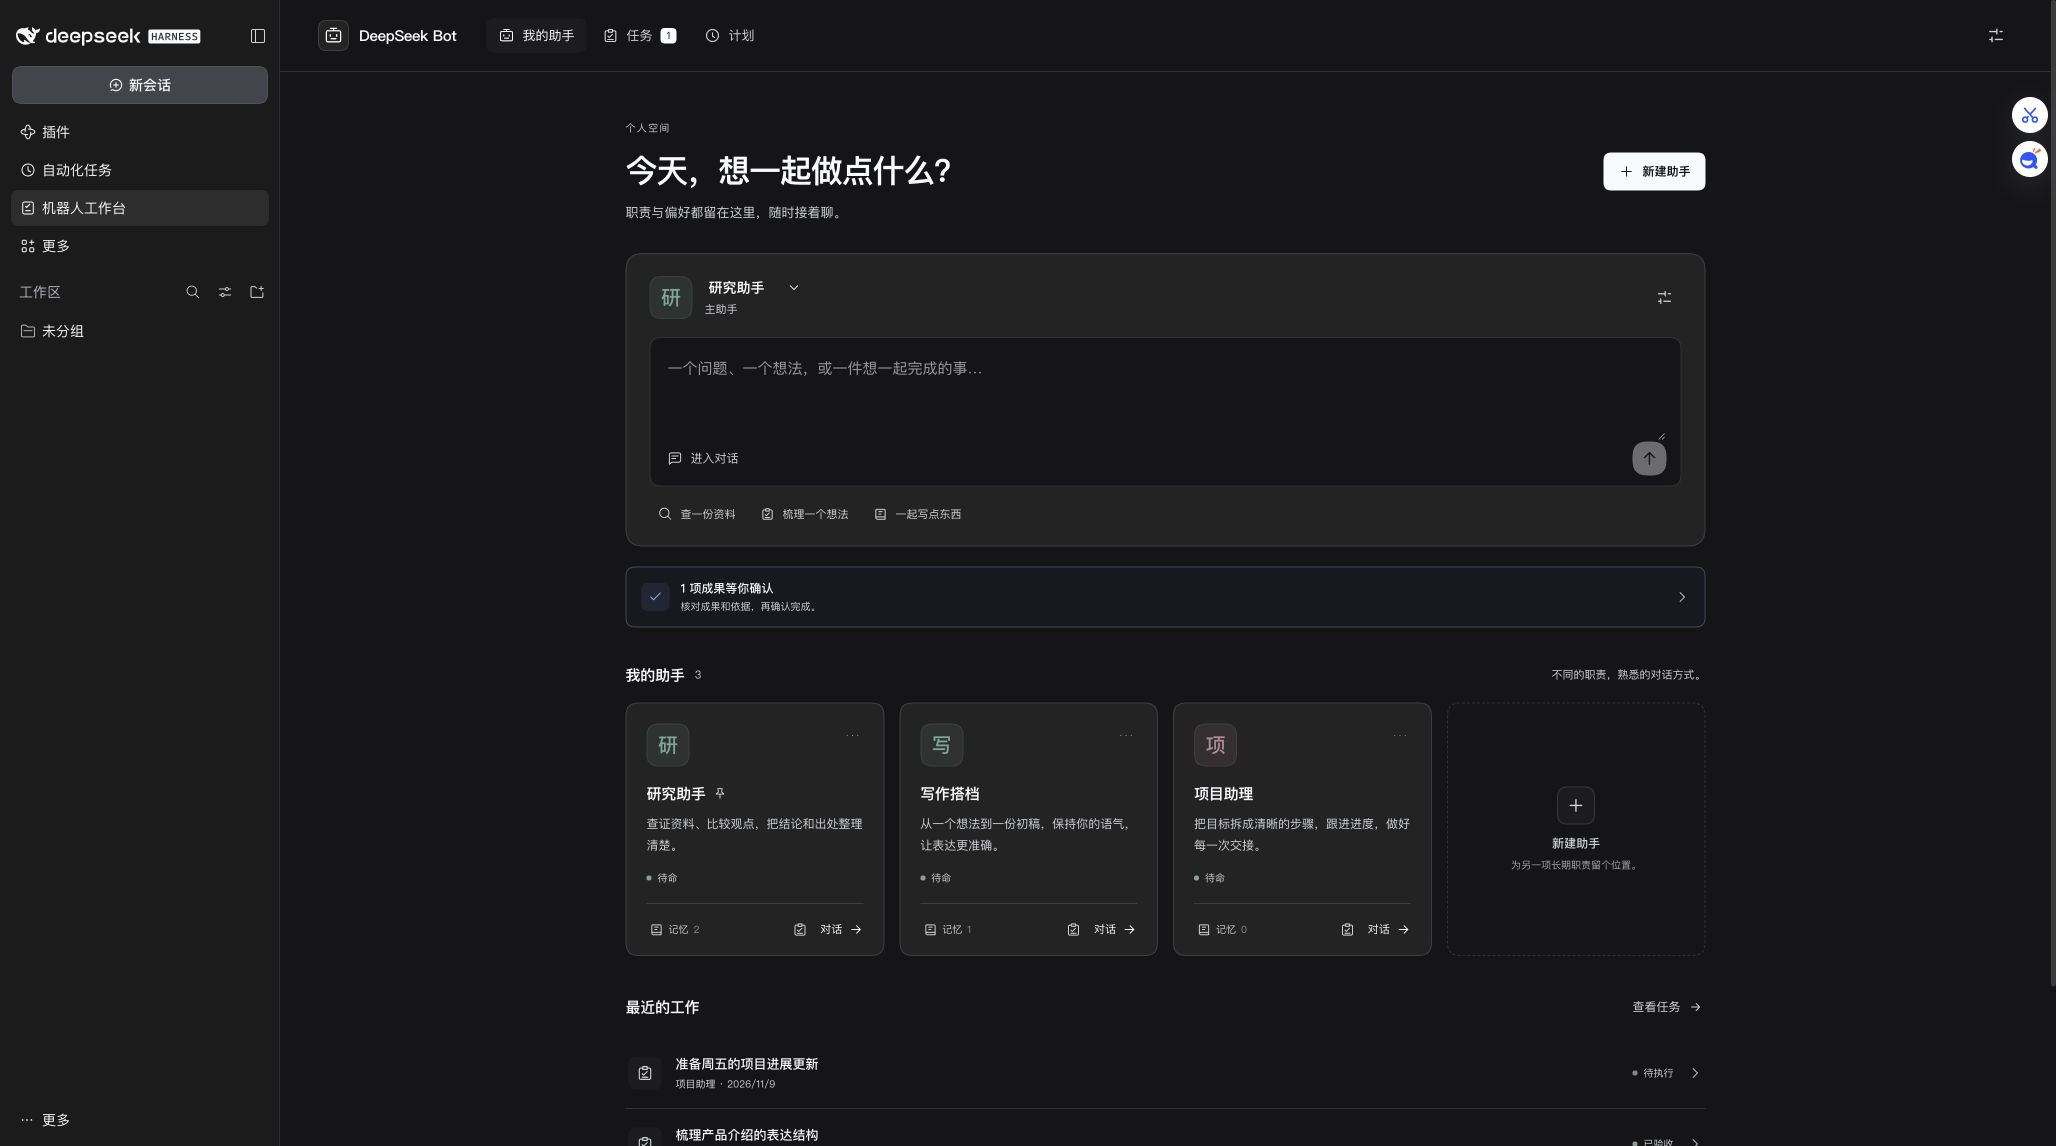
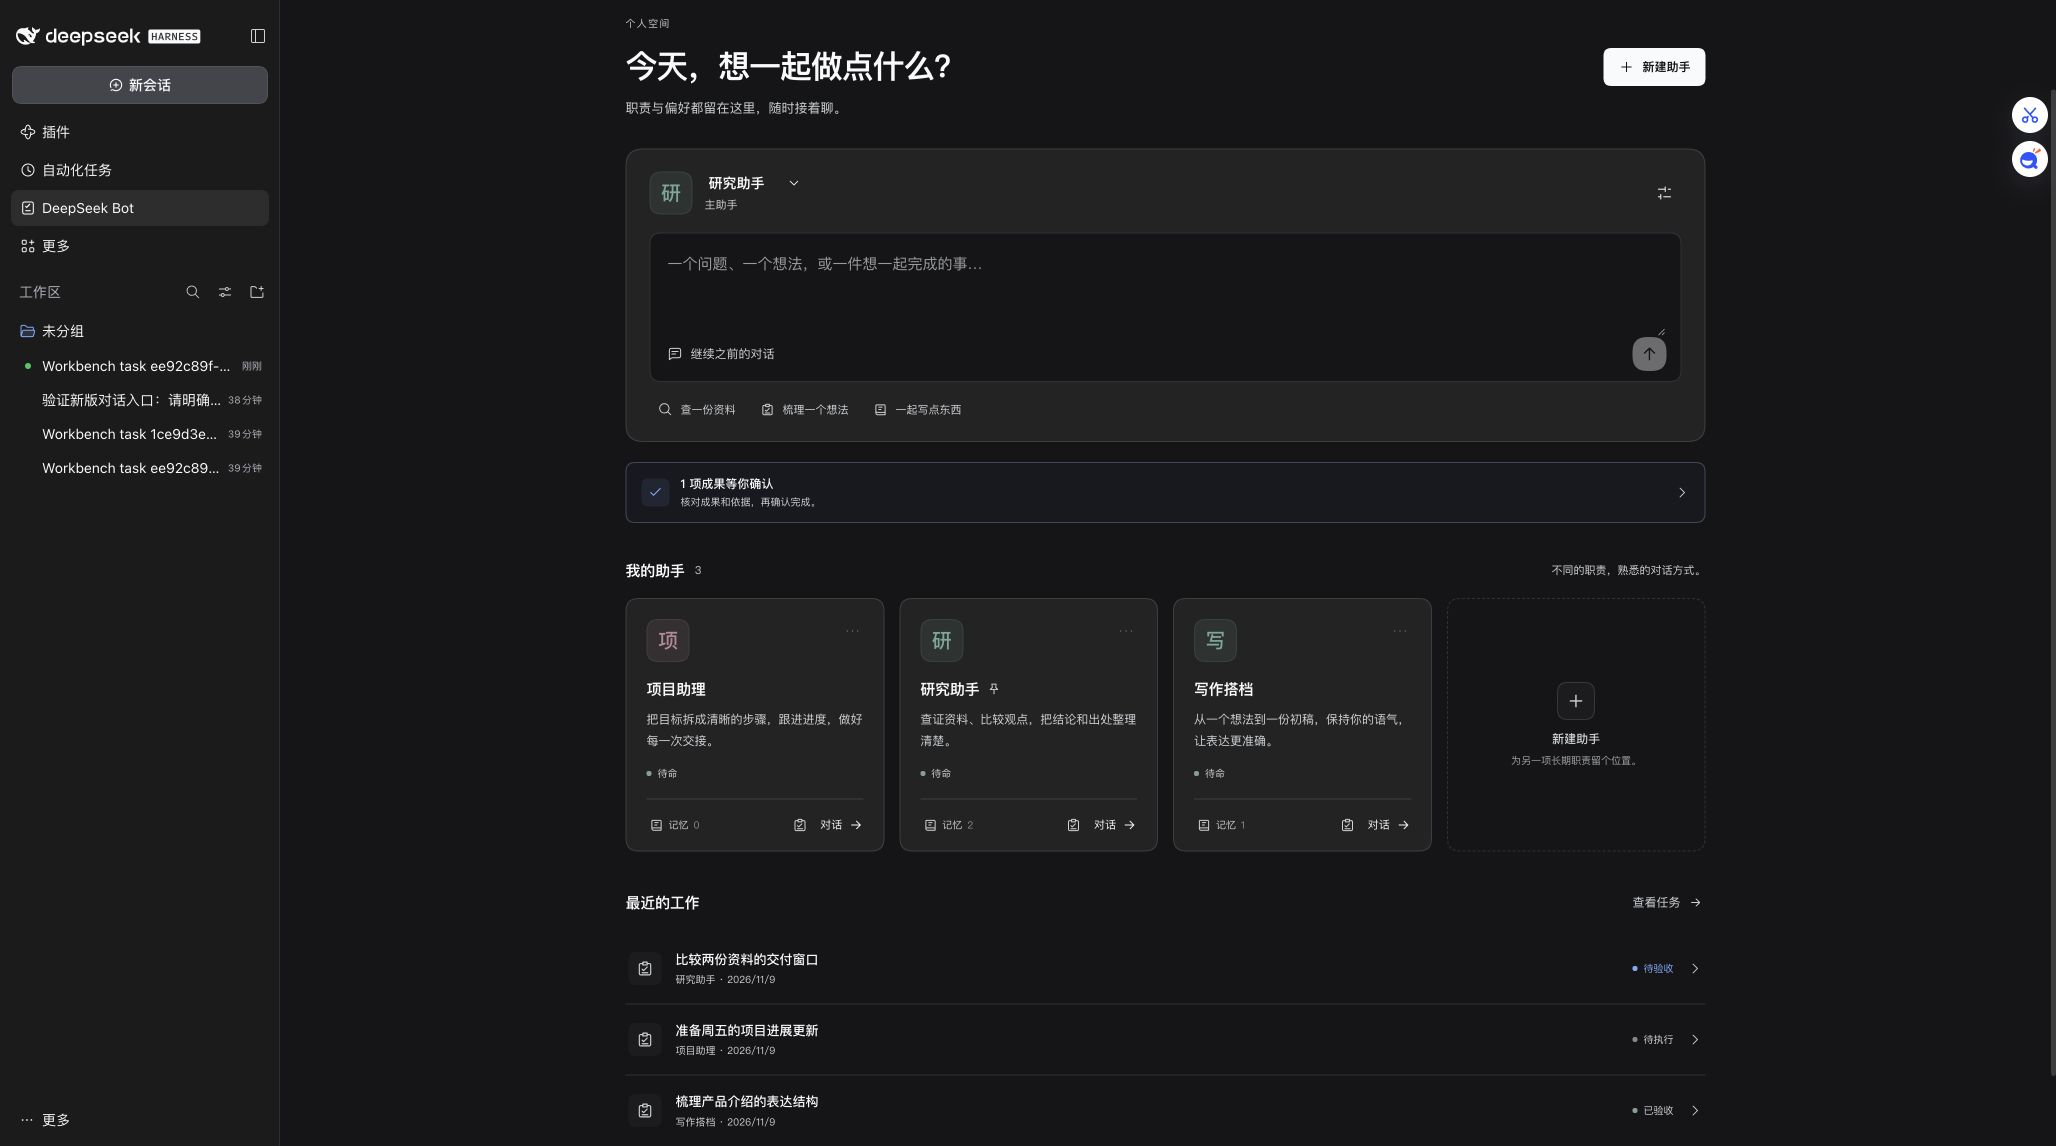
Record rc.1 desktop verification and refresh UI screenshots

diff --git a/docs/verification.md b/docs/verification.md
@@ -20,18 +20,24 @@ Evidence is version-specific. A scripted model is not a real DeepSeek model; a p
 | Web memory add/edit, Escape focus return, 390×844 layout | alpha.4 / Chrome | PASS |
 | Desktop install, enable, Bot/memory/task UI | alpha.3 / user's Harness 0.2.2-rc.1 | PASS |
 | Real DeepSeek model reads two local sample files and submits evidence | alpha.3 / desktop / DeepSeek-V4.1-Flash High | PASS; 4 native steps, human-reviewed sample result |
-
 | Assistant-first home, message delivery into native conversation, memory search/edit, task review drawer, daily-plan creation/removal and 390×844 layout | rc.1 / Chrome / scripted fixture | PASS |
+| Desktop alpha.3 → rc.1 install and enable | user's Harness 0.2.2-rc.1 | PASS; existing Bot, confirmed memory and accepted sample retained |
+| New home composer → native main conversation | rc.1 / desktop / DeepSeek-V4.1-Flash High | PASS; reply follows retained format preference, one native step |
+| Native 60-second plan → real model → evidence submission | rc.1 / desktop / DeepSeek-V4.1-Flash High | PASS; timer delivered at 2026-11-09 22:44:15 Asia/Shanghai, 5 native steps, submitted at 22:44:26 |
+| Review and temporary-plan removal | rc.1 / desktop | PASS; checked sample file lines 3–4, recorded test-only acceptance, plans page empty |
+| GitHub macOS check and full native package integration | fad4d24 / Node 24.22.1 | [PASS](https://github.com/RoketrP/dsh-bot-workbench/actions/runs/42635663683) |
 
 The real-model test used non-sensitive artificial source files in a dedicated directory. References and the 10:00–11:00 intersection were checked against those files. The separate conversational answer included an inaccurate “no overlap” phrase; the submitted evidence and intersection were correct. Model correctness is not guaranteed by this workflow.
 
-Native scripted-model receipts are summarized in [native-test-report.json](native-test-report.json). Screenshots show rc.1 assistant-first UI with isolated scripted examples, not the user's private data or real-model session. Native desktop screenshot capture returned a minimized-window thumbnail; no such thumbnail is presented as a valid full-window screenshot.
+Native scripted-model receipts are summarized in [native-test-report.json](native-test-report.json). The rc.1 desktop scheduled result correctly cited source-a.md:3 (09:00–11:00), source-b.md:3 (10:00–12:00), and their shared Asia/Shanghai time zone. The intersection was checked as 10:00–11:00. This is an artificial local integration sample, not a benchmark of model reliability. Its temporary plan was removed before closing the verification.
 
-## Release closeout still to record
+The installed rc.1 Host/client JavaScript and bundle patch matched the local release build byte-for-byte. The final tarball refreshes documentation and screenshot assets; it is not the identical archive originally installed for desktop verification. Screenshots show rc.1 assistant-first UI with isolated scripted examples, not the user's private data or real-model session. Native screenshot capture still returned a minimized-window thumbnail after successful accessibility-based actions; no such thumbnail is presented as a valid full-window screenshot.
 
-- Final rc.1 desktop upgrade, including a real-model sample and a temporary native plan.
-- Public release asset download/integrity and GitHub CI result.
-- Marketplace application status and the one-day repository age gate.
+## Release and marketplace status
+
+The [rc.1 release](https://github.com/RoketrP/dsh-bot-workbench/releases/tag/v0.1.0-rc.1) provides the prebuilt tarball and SHA256SUMS.txt. Release-asset download/integrity is recorded separately from source and native test results in its release notes.
+
+Marketplace application is not yet submitted. The repository was created at 2026-11-09T13:08:39Z, so the earliest time satisfying the current one-day age rule is 2026-11-10 21:08:39 Asia/Shanghai. The topic and installable bundle are present; submission materials are prepared separately. Submission, CI, merge and storefront visibility remain separate outcomes.
 
 Linux and Windows have not been validated. No external sending, purchasing, deployment or real-recipient action was exercised.
 

diff --git a/README.en.md b/README.en.md
@@ -26,7 +26,7 @@ Create a Bot with an existing workspace. Leave model references blank to follow 
 
 The Host must remain running. Private memory and workspaces are not security boundaries. Workbench tasks serialize per Bot and resolved workspace; ordinary conversations and other plugins are outside this mutex. Default task limits: two concurrent tasks, 40 steps and 600 seconds. Token counts are Host-reported usage, not bills or hard spending limits. A prior result must be reviewed or reconciled before another scheduled execution is claimed.
 
-[DSH-Bot](https://github.com/MJ-CJM/DSH-Bot) and other projects cover overlapping personal-Bot features. This project focuses on acceptance, handoff and reconciliation; it does not implement autonomous group chat or external messaging. See [decisions](docs/decisions.md), [verification](docs/verification.md), [operations and data](docs/operations.md), [changelog](CHANGELOG.md) and [security](SECURITY.md). Scripted-model, real-model, browser, desktop and package-install evidence are reported separately.
+[DSH-Bot](https://github.com/MJ-CJM/DSH-Bot) covers overlapping personal-Bot features, and [goal-acceptance](https://github.com/cckyros/goal-acceptance) covers overlapping acceptance features. This project combines Bot-private memory, evidence review, explicit handoff, native schedule receipt binding and interrupted-run reconciliation in one native UI workflow. It does not implement autonomous group chat or external messaging. See [decisions](docs/decisions.md), [verification](docs/verification.md), [operations and data](docs/operations.md), [changelog](CHANGELOG.md) and [security](SECURITY.md). Scripted-model, real-model, browser, desktop and package-install evidence are reported separately.
 
 ## Develop
 

diff --git a/docs/decisions.md b/docs/decisions.md
@@ -7,3 +7,5 @@
 5. The 0.2.2 native Schedule API differs from 0.2.1; the implementation is pinned to the tested tuple and uses create({timing,target}) and edit({action:'delete'}). No cross-version support is implied.
 6. Scheduled instructions contain only a workbench receipt request. Task execution requires the live plugin tool, the stored session binding and a native schedule-source message in the current turn. Missing plugin or stale binding must not trigger a fallback ordinary task.
 7. No new daemon, cloud service, remote-control listener or provider credentials are introduced. The user's existing plugin and task configuration are not replaced.
+8. Further marketplace research found [cckyros/goal-acceptance](https://github.com/cckyros/goal-acceptance), whose README describes an MCP/Core goal engine with frozen acceptance criteria, typed evidence, reviewer confirmation and a Harness completion hook. Acceptance is therefore not an unfilled marketplace category. This plugin combines a Bot-oriented native UI, private confirmed memory, explicit handoff, native schedule receipt binding and uncertain-run reconciliation in one persisted task workflow. There is functional overlap; the maintainer must judge whether this combination warrants a separate listing. No code from goal-acceptance was used. This comparison is based on its published README, not an independent audit of its implementation.
+9. [Edge-HH/GrokBot_in_DeepseekHerness](https://github.com/Edge-HH/GrokBot_in_DeepseekHerness) describes a browser desktop pet port with drag/appearance/progress features. It is a different product direction from personal Bot tasks. No code from that project was used, and this project does not claim Grok compatibility.
